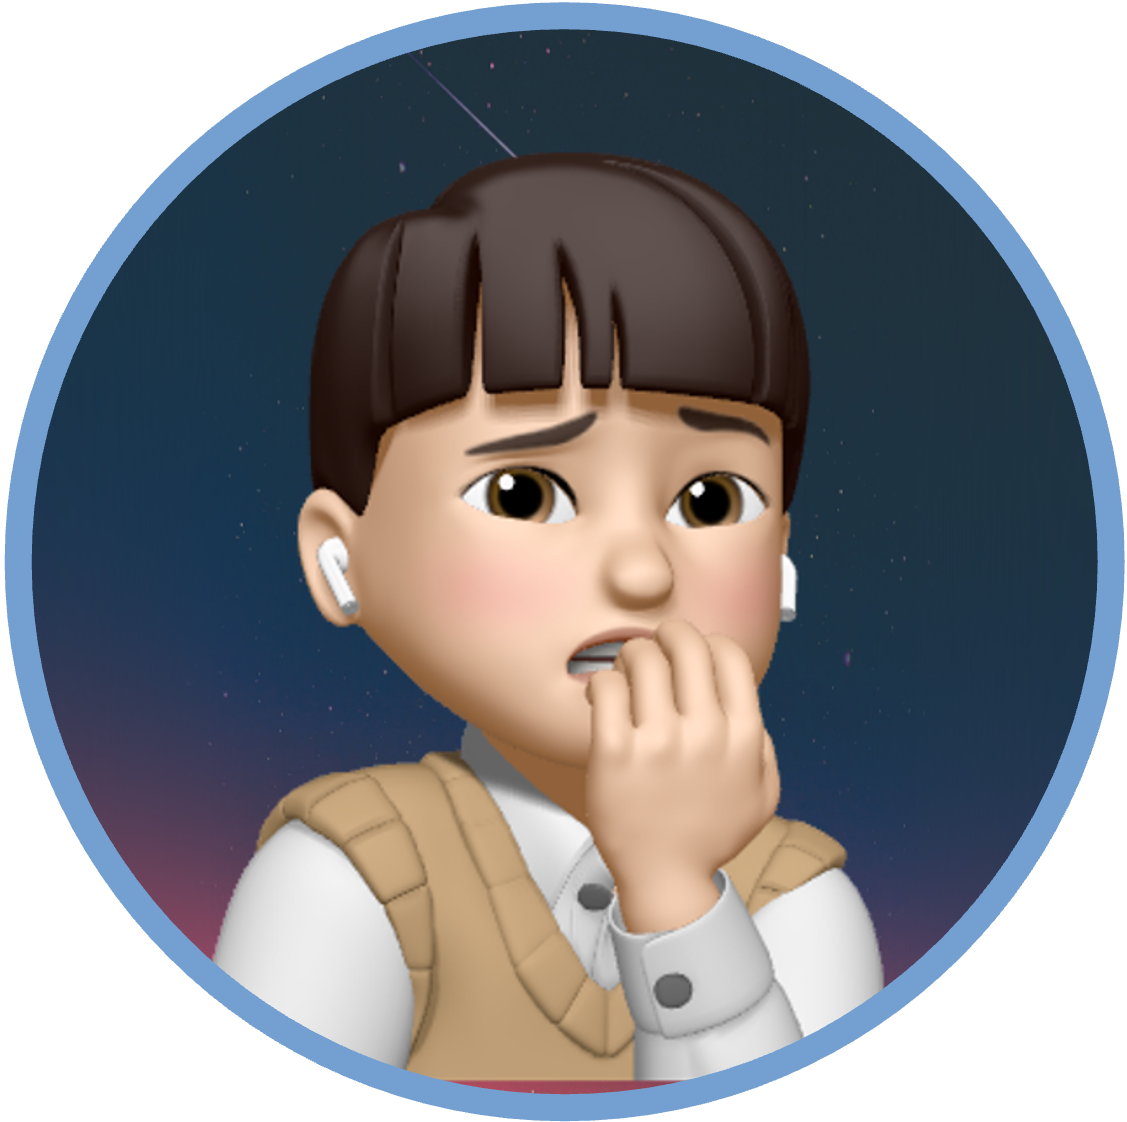
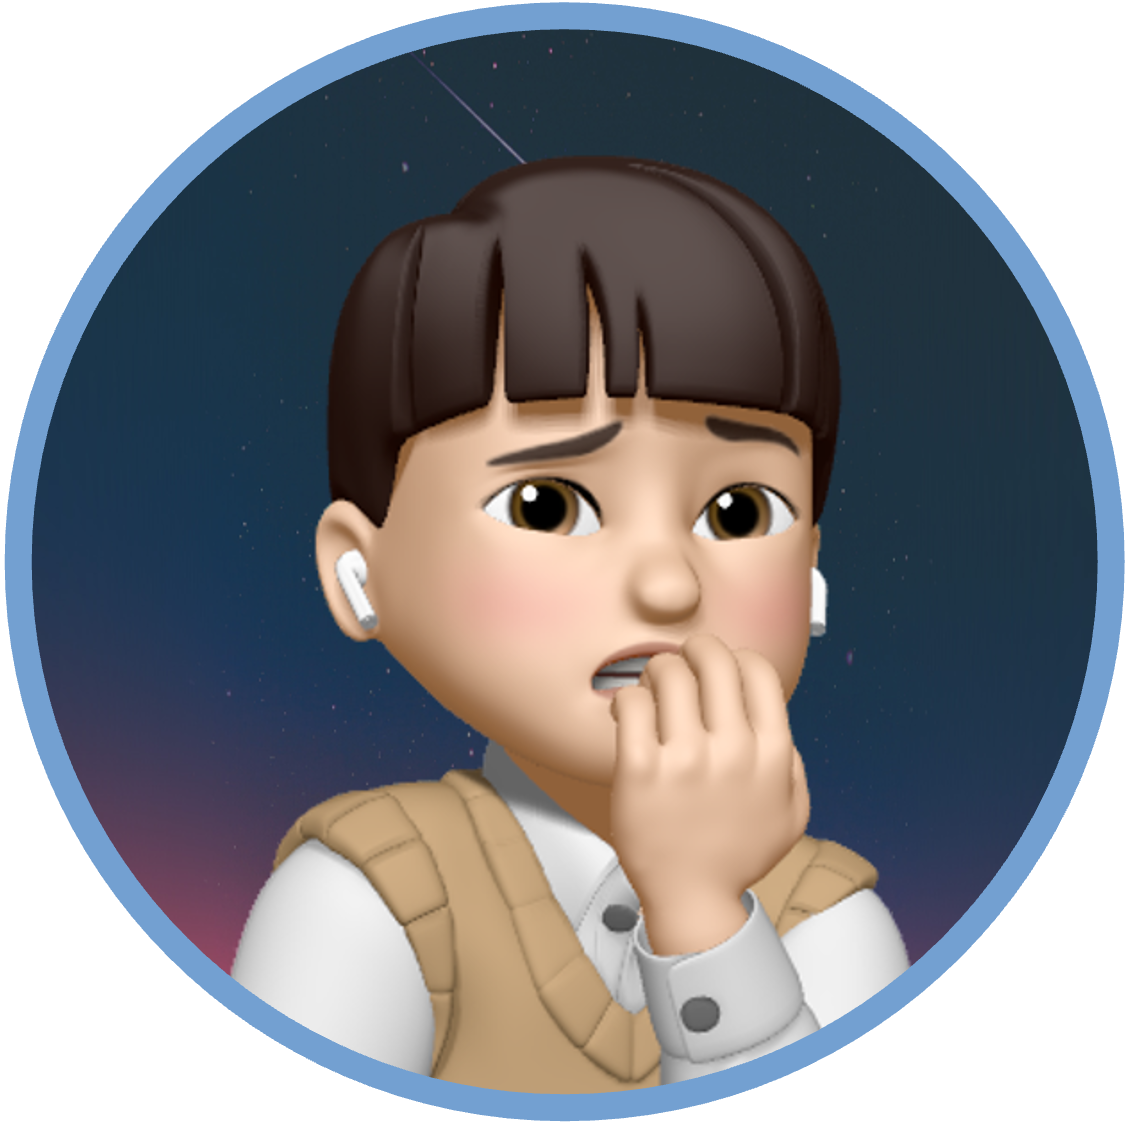
1_22 interest 내용 추가, 본문 볼드체 적용, tmp2 이미지 변경

Changed region(s): [[0.1863, 0.0936, 0.8075, 0.9982], [0.4658, 0.8734, 0.4969, 0.9046], [0.3416, 0.5927, 0.3727, 0.6239]]

diff --git a/index.html b/index.html
@@ -122,18 +122,19 @@
         <div id="right_side">
             <h1 style="font-size: 60px; font-weight: bold; margin-bottom: 50px;">JEON JINJONG</h1>
             <p class="sub_title">HELLO ELICE</p>
-            <p class="info">안녕하세요! 프론트엔드 개발에 관심이 많은 전진종입니다. 만나서 반가워요!🤗 
+            <p class="info">안녕하세요! <strong>프론트엔드 개발</strong>에 관심이 많은 전진종입니다. 만나서 반가워요!🤗 
             </p>
             <hr style="margin-top: 50px;">
             <p class="sub_title">HOBBY</p>
-            <p class="info">저는 쉬는 날이면 주로 영화를 보는 편입니다! <br>가장 좋아하는 영화는 인터스텔라이지만 사실 장르 가리지 않고 모든 영화를 좋아합니다.😊
-            <br>영화 말고도 게임과 농구, 그리고 방탈출을 굉장히 즐겨하는 편이에요!<br>혹시 저와 같은 취미를 갖고 있는 분 계신가요? 🙌</p>
+            <p class="info">저는 쉬는 날이면 주로 <b>영화</b>를 보는 편입니다! <br>가장 좋아하는 영화는 인터스텔라이지만 사실 장르 가리지 않고 모든 영화를 좋아합니다.😊
+            <br>영화 말고도 게임과 농구, 그리고 <b>방탈출</b>을 굉장히 즐겨하는 편이에요!<br>혹시 저와 같은 취미를 갖고 있는 분 계신가요? 🙌</p>
             <hr style="margin-top: 50px;">
             <p class="sub_title">FAVORITE</p>
-            <p class="info">제가 가장 좋아하는 음식은 치킨입니다. 🍗<br>굽네치킨을 가장 좋아하는데, 최근에 나온 불금치킨이 정말 맛있습니다!!!<br>그리고 탄산음료를 되게 좋아합니다. <br>하지만 건강을 지키기 위해 최근에는 줄이려고 노력하고 있습니다,,,🥲</p>
+            <p class="info">저의 최애 음식은 <b>치킨</b>입니다. 🍗<br>굽네치킨을 가장 좋아하는데, 최근에 나온 <b>불금치킨</b>이 정말 맛있습니다!!!
+                <br>그리고 <b>펩시제로 라임</b>을 상당히 좋아합니다. <br>하지만 건강을 지키기 위해 최근에는 줄이려고 노력하고 있습니다,,,🥲</p>
             <hr style="margin-top: 50px;">
             <p class="sub_title">OTHER</p>
-            <p class="info">수료하고 3개월 이내에 취뽀하고 싶습니다. 다같이 화이팅해요! 👊</p> 
+            <p class="info">수료하고 3개월 이내에 <b>취뽀</b>하고 싶습니다. 다같이 화이팅해요! 👊</p> 
         </div>
     </div>
 

diff --git a/my_page/interest.html b/my_page/interest.html
@@ -122,10 +122,16 @@
         <div id="right_side">
             <h1 style="font-size: 60px; font-weight: bold; margin-bottom: 50px;">JEON JINJONG</h1>
             <p class="sub_title">MY INTERESTS</p>
-            <p class="info">사용자 접근성이 좋은 웹을 개발하는 프론트엔드 개발에 관심이 많습니다!<br>
-                그리고 사용자 예측기반 추천시스템에도 관심이 많아 광고 머신러닝 모델을 개발해보고 싶습니다!
-                <br>최종적으로는 제가 만든 모델을 서빙하는 웹앱을 개발해서 실제로 서비스까지 런칭하는게 목표입니다! 😊
+            <p class="info"><b>사용자 접근성이 좋은 웹</b>을 개발하는 프론트엔드 개발에 관심이 많습니다!<br>
+                그리고 사용자 예측기반 <b>추천시스템</b>에도 관심이 많아 <b>광고 머신러닝 모델</b>을 개발해보고 싶습니다!
+                <br>최종적으로는 제가 만든 모델을 서빙하는 웹앱을 개발해서 실제로 <b>서비스까지 런칭</b>하는게 목표입니다! 😊
             </p>
+            <hr style="margin-top: 50px;">
+            <p class="sub_title">INTEREST SKILL</p>
+            <p class="info"><b>FE</b> : React, TypeScript, Svelte
+                <br><b>BE</b> : Node.js, Fast api, Flask
+                <br><b>ML</b> : RetinaNet, GAN, SVM
+                <br><b>Language</b> : C++, Python</p>
         </div>
     </div>
 

diff --git a/my_page/ai_track.html b/my_page/ai_track.html
@@ -122,7 +122,7 @@
         <div id="right_side">
             <h1 style="font-size: 60px; font-weight: bold; margin-bottom: 50px;">JEON JINJONG</h1>
             <p class="sub_title">TO ELICE 4th track</p>
-            <p class="info">앞으로 배울 풀스택 과정이 너무 기대됩니다! 수강생 여러분 모두 열심히 복습하고 다같이 취뽀합시다! 
+            <p class="info">향후 레이서분들과 함께 만들어갈 <b>프로젝트</b>가 가장 기대됩니다! <br>마지막으로 레이서 여러분 모두 열심히 복습하고 다같이 <b>취뽀</b>해요! 👍
             </p>
         </div>
     </div>
